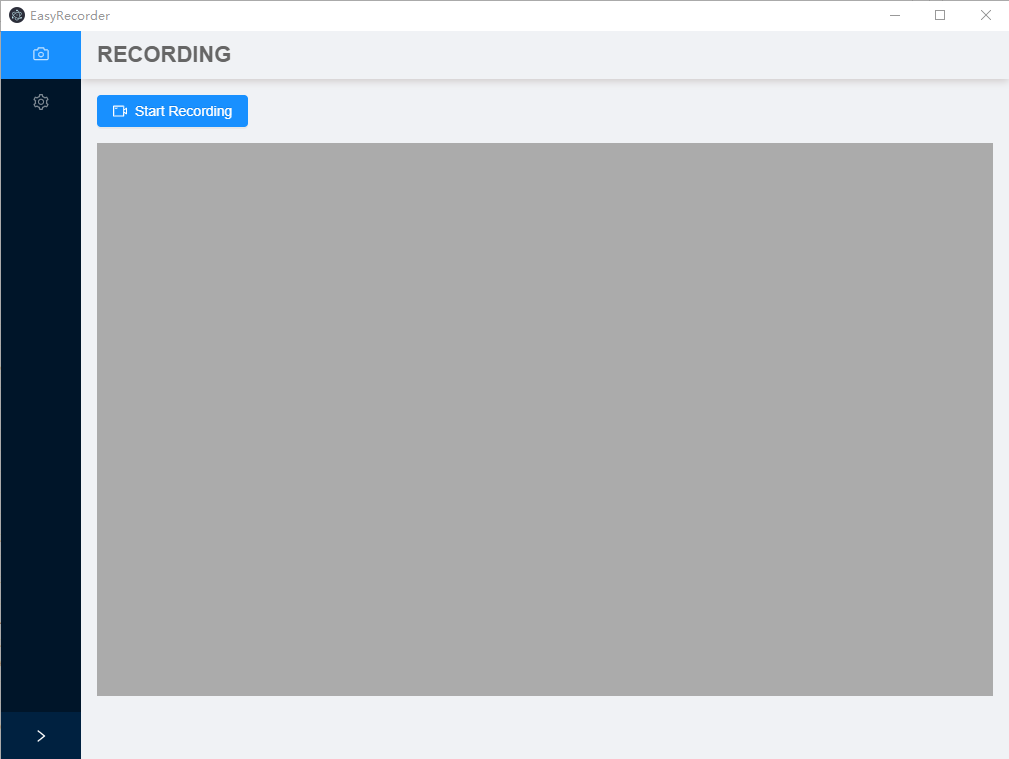
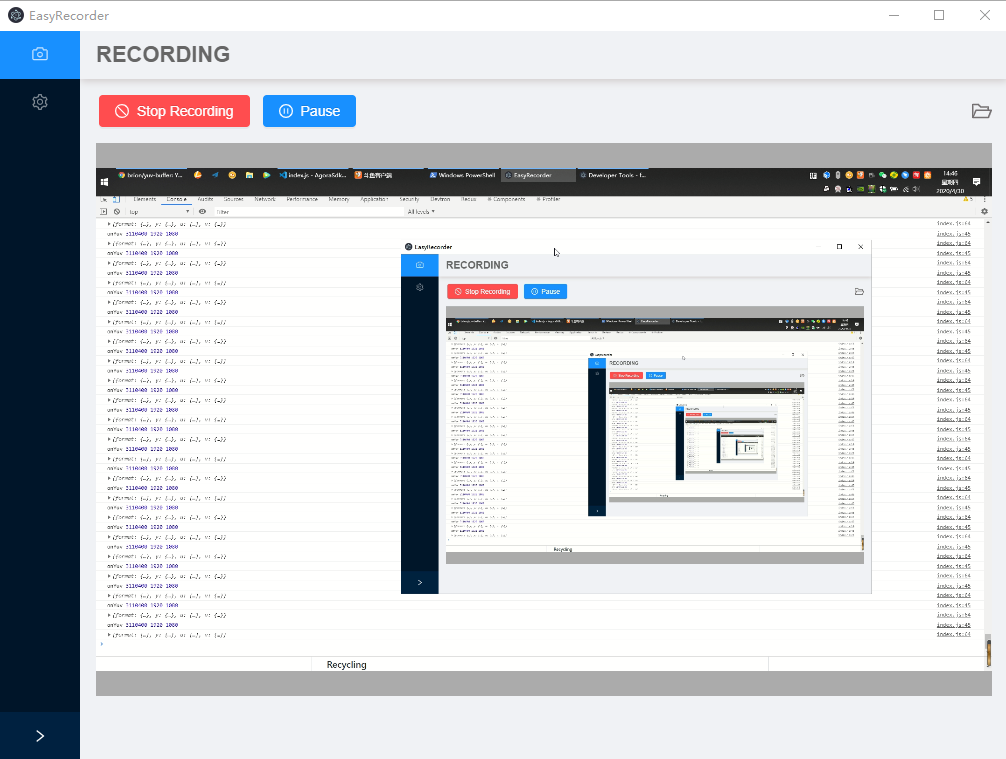
add yuv-canvas & yuv-buffer to support yuv preview

diff --git a/app/components/RecordingPreview/index.js b/app/components/RecordingPreview/index.js
@@ -1,5 +1,9 @@
 // @flow
 import React, { Component } from 'react';
+import YUVBuffer from 'yuv-buffer';
+import YUVCanvas from 'yuv-canvas';
+
+import EasyRecorder from '../../utils/recorder';
 
 import './style.scss';
 
@@ -8,11 +12,64 @@ type Props = {};
 export default class RecordingPreview extends Component<Props> {
   props: Props;
 
+  constructor(props) {
+    super(props);
+
+    this.canvas = undefined;
+    this.ctx = undefined;
+    this.yuv = undefined;
+    this.onYuv = this.onYuv.bind(this);
+  }
+
+  componentDidMount() {
+    EasyRecorder.onYuv(this.onYuv);
+
+    const dom = document.getElementById('preview-canvas');
+    if (dom) {
+      this.canvas = dom;
+      this.ctx = this.canvas.getContext('2d');
+      this.yuv = YUVCanvas.attach(this.canvas, { webGL: false });
+    }
+  }
+
+  componentWillUnmount() {
+    EasyRecorder.onYuv(() => {});
+
+    this.yuv.clear();
+    this.yuv = null;
+  }
+
+  onYuv(size, width, height, type, data) {
+    if (this.yuv === undefined) return;
+
+    console.info('onYuv', size, width, height);
+
+    const format = YUVBuffer.format({
+      width,
+      height,
+      chromaWidth: width / 2,
+      chromaHeight: height / 2
+    });
+
+    const y = YUVBuffer.lumaPlane(format, data);
+    const u = YUVBuffer.chromaPlane(format, data, undefined, width * height);
+    const v = YUVBuffer.chromaPlane(
+      format,
+      data,
+      undefined,
+      (width * height * 5) / 4
+    );
+    const frame = YUVBuffer.frame(format, y, u, v);
+
+    console.info(frame);
+
+    this.yuv.drawFrame(frame);
+  }
+
   render() {
     return (
       <div className="recording-preview">
-        <h1>Preview</h1>
-        <h2>Ops, unsupport now</h2>
+        <canvas id="preview-canvas" />
       </div>
     );
   }

diff --git a/app/utils/recorder.js b/app/utils/recorder.js
@@ -16,6 +16,8 @@ import { msgSuccess, msgError } from './notification';
 
 const ffRecorder = new EasyRecorder();
 
+window.ffRecorder = ffRecorder;
+
 const Recorder = {
   getDevices() {
     return {
@@ -80,6 +82,14 @@ const Recorder = {
   },
   resume() {
     store.dispatch(recorderResume());
+  },
+
+  /**
+   *
+   * @param {(image:{size:number,width:number,height:number,type:number,data:Buffer})=>void} callback
+   */
+  onYuv(callback) {
+    ffRecorder.SetPreviewYuvCallBack(callback);
   }
 };
 

diff --git a/app/components/RecordingPreview/style.scss b/app/components/RecordingPreview/style.scss
@@ -15,4 +15,9 @@
     color: rgba(0, 0, 0, 0.85);
     font-size: 24px;
   }
+
+  canvas {
+    width: 100%;
+    height: 100%;
+  }
 }

diff --git a/README.md b/README.md
@@ -23,6 +23,7 @@
 - Encode audio data from pcm to aac
 - Mux h264 and aac to a single mp4 file
 - Only support in windows for now(at least win7)
+- Image preview(yuv420)
 
 <br>
 
@@ -31,7 +32,6 @@
 <br>
 
 - More muxers such as .mkv
-- Data preview
 - Screen grabber for mac and linux systems
 - Audio grabber for mac and linux systems
 
